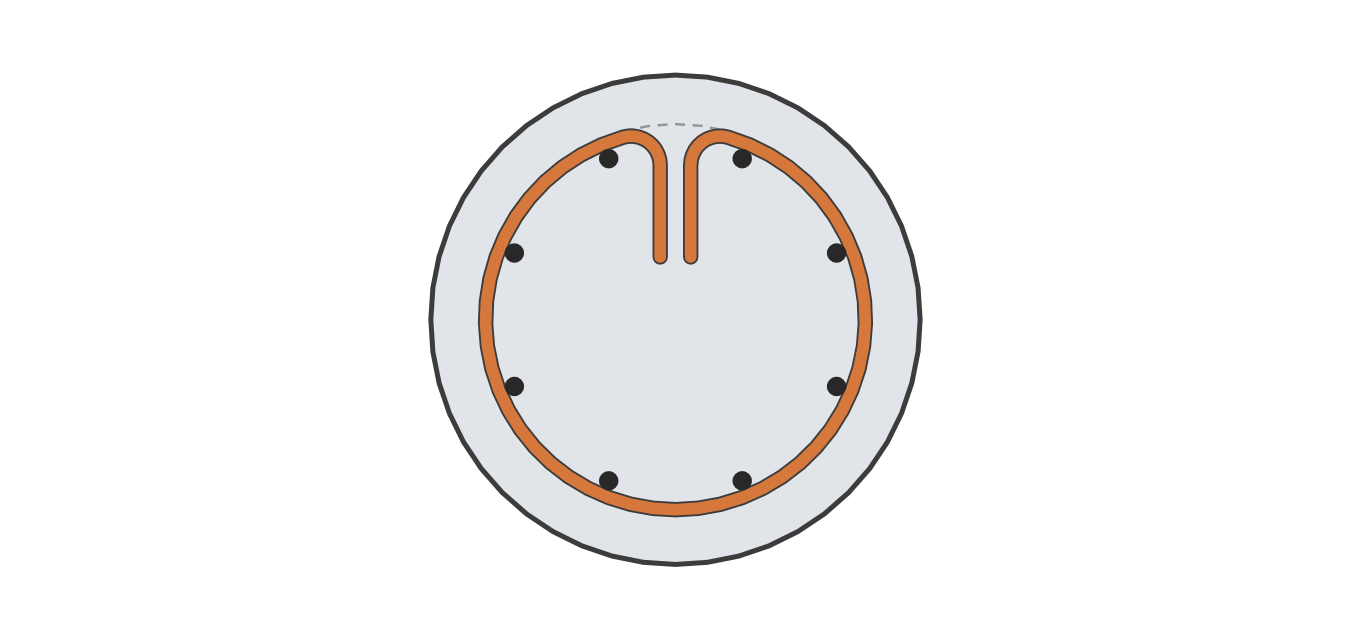
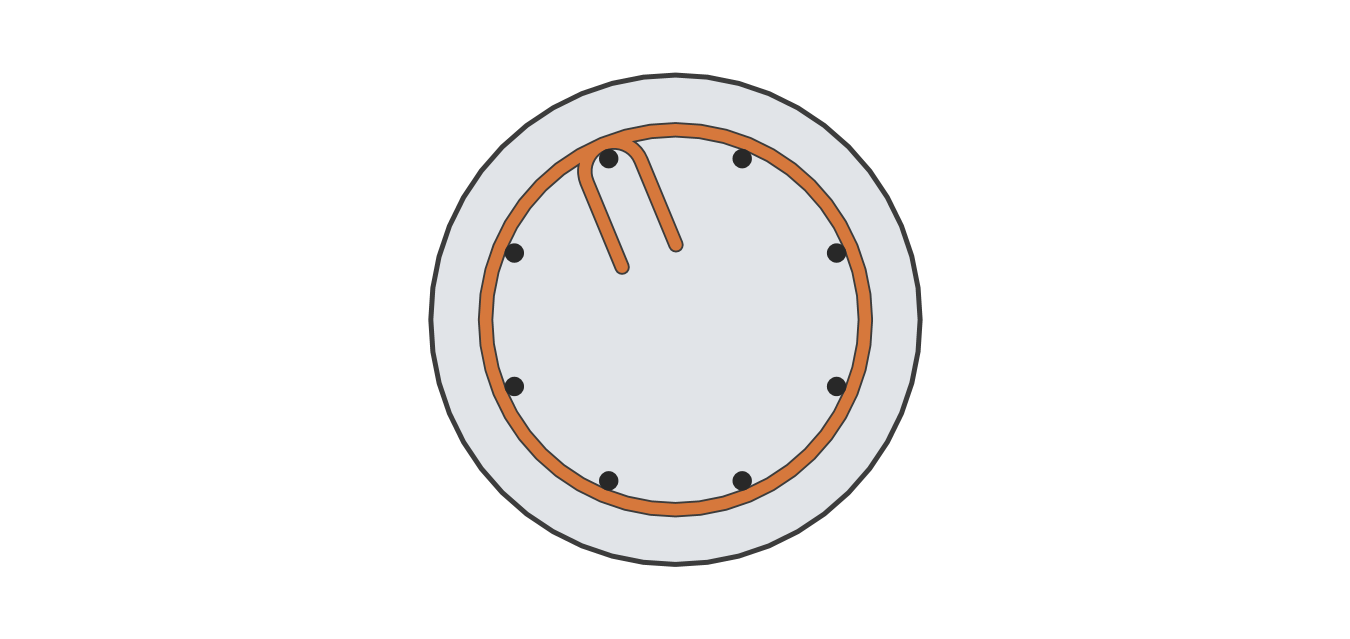
Circular hoops close on a vertical bar: both ends wrap the topmost bar with a 90-degree bend (Revit's minimum radius) and run into the core on either side of it

Changed region(s): [[0.4044, 0.1784, 0.5289, 0.446]]

diff --git a/revit_mcp/rebar_spec.py b/revit_mcp/rebar_spec.py
@@ -250,14 +250,16 @@ def _bend_to(point, direction, sign, radius, target, steps=10):
              cy + radius * math.sin(a0 + sign * turn * k / float(steps))) for k in range(1, steps + 1)]
 
 
-def hoop_path(radius, ds, hook_leg, start=math.pi / 2, steps=48):
+def hoop_path(radius, ds, hook_leg, start=math.pi / 2, steps=48, wrap=None):
     """A circular hoop in plan as it is bent on site: nearly a full turn,
     both ends at `start` bent into the core (2.5 ds bends) as two parallel
     legs `hook_leg` long, side by side towards the centre - no crossing.
-    One polyline [(x, y)], counterclockwise."""
-    bend = 2.5 * ds
+    `wrap` (bar radius + ds / 2): it closes on the vertical bar at `start`
+    - both ends wrap that bar, a 90-degree bend round it each, and run into
+    the core on either side of it. One polyline [(x, y)], counterclockwise."""
+    bend = 2.5 * ds if wrap is None else max(wrap, 2.5 * ds)  # Revit's minimum bend
     gap = 1.5 * ds  # half the clear space between the two legs
-    delta = math.asin(min(0.9, (gap + bend + ds / 2.0) / radius))
+    delta = 0.0 if wrap is not None else math.asin(min(0.9, (gap + bend + ds / 2.0) / radius))
     a0, a1 = start + delta, start - delta + 2 * math.pi
     arc = [(radius * math.cos(a0 + (a1 - a0) * k / float(steps)), radius * math.sin(a0 + (a1 - a0) * k / float(steps)))
            for k in range(steps + 1)]
@@ -273,6 +275,15 @@ def hoop_path(radius, ds, hook_leg, start=math.pi / 2, steps=48):
         return pts + [(last[0] + inward[0] * hook_leg, last[1] + inward[1] * hook_leg)]
 
     return end(a0, -1.0)[::-1] + arc + end(a1, 1.0)
+
+def hoop_closing(bars, ds):
+    """Where a circular hoop closes: on the topmost vertical bar, wrapping
+    it ({"start", "wrap"} for hoop_path); {} without bars."""
+    if not bars:
+        return {}
+    x, y, key = max(bars, key=lambda b: (round(b[1], 4), -b[0]))
+    return {"start": math.atan2(y, x), "wrap": BAR_DIAMETERS_MM[key] / 2000.0 + ds / 2.0}
+
 
 def spiral_path(radius, z_start, z_end, pitch, ds, extra_turns=SPIRAL_EXTRA_TURNS, per_turn=24):
     """A spiral as points (x, y, z) from z_start to z_end (m): `extra_turns`

diff --git a/tests/unit/test_rebar_spec.py b/tests/unit/test_rebar_spec.py
@@ -942,3 +942,20 @@ class TestFittedDesign:
         d = fitted_design(rect, 0.04, '3/8"', '5/8"')
         xs = sorted(round(abs(x), 4) for x, _, _ in d["bars"])
         assert len(xs) == 4 and abs(xs[0] - (0.125 - 0.04 - 0.009525 - 0.0079375)) < 1e-4
+
+
+class TestHoop:
+    def test_closes_on_a_bar_with_parallel_legs(self):
+        import math
+        from revit_mcp.rebar_spec import hoop_path, hoop_closing, circular_bars
+        ds = 0.009525
+        bars = circular_bars(0.20 - 0.04 - ds - 0.0079, 8, '5/8"')
+        c = hoop_closing(bars, ds)
+        p = hoop_path(0.20 - 0.04 - ds / 2, ds, 0.075, **c)
+        bx, by, _ = min(bars, key=lambda b: abs(math.atan2(b[1], b[0]) - c["start"]))
+        d1 = (p[0][0] - p[1][0], p[0][1] - p[1][1])
+        d2 = (p[-1][0] - p[-2][0], p[-1][1] - p[-2][1])
+        assert abs(d1[0] * d2[1] - d1[1] * d2[0]) < 1e-9  # parallel legs
+        # the bar between the two legs
+        side = [((q[0] - bx) * -by + (q[1] - by) * bx) for q in (p[0], p[-1])]
+        assert side[0] * side[1] < 0

diff --git a/BOKI Estructura.tab/Acero.panel/Acero.pushbutton/script.py b/BOKI Estructura.tab/Acero.panel/Acero.pushbutton/script.py
@@ -1319,7 +1319,7 @@ class AceroWindow(forms.WPFWindow):
             key = self._family_key(rs.KIND_EDGE)
             ds = rs.BAR_DIAMETERS_MM[key] / 1000.0
             radius = section.radius_m - self._cover_m() - ds / 2.0
-            path = (rs.hoop_path(radius, ds, max(6 * ds, 0.075)) if circ.get("t") != rs.CIRC_SPIRAL
+            path = (rs.hoop_path(radius, ds, max(6 * ds, 0.075), **rs.hoop_closing(bars, ds)) if circ.get("t") != rs.CIRC_SPIRAL
                     else rs.circle_points(radius, 72) + rs.circle_points(radius, 72)[:1])
             self._steel(frame, path, C_STIRRUP, max(2, ds * scale))
         for x, y, key in bars:

diff --git a/revit_mcp/rebar_columns.py b/revit_mcp/rebar_columns.py
@@ -1192,7 +1192,7 @@ def _circular_steel(doc, column, column_spec, section, circ, bar_type_for, z_cle
         rebar = _free_form(doc, bar_type, column, world)
         _tag(rebar, column)
         return [(rebar, key, EDGE)]
-    plan = spec.hoop_path(radius, ds, max(6 * ds, 0.075))
+    plan = spec.hoop_path(radius, ds, max(6 * ds, 0.075), **spec.hoop_closing(column_spec.design["bars"], ds))
     joint_m = column_spec.joint_spacing_m or family.rest
     for z_set, n, spacing, side in _runs(family, joint_m, section, z_clear_top, z_start):
         for i in range(n):
